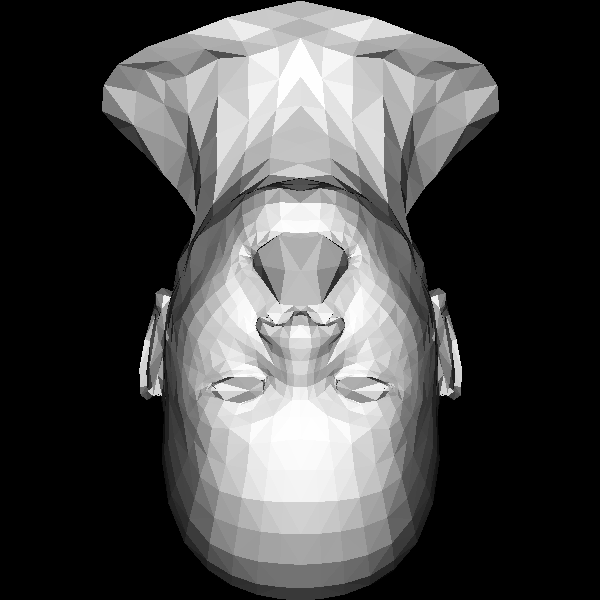
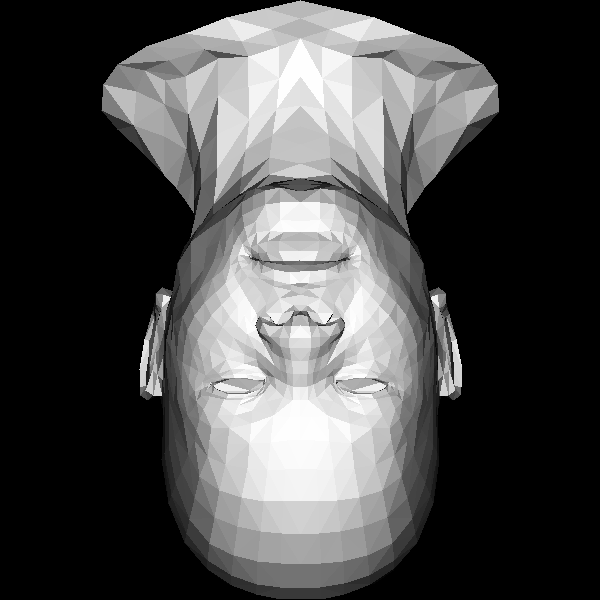
added zbuffer

diff --git a/render/render.go b/render/render.go
@@ -1,8 +1,10 @@
 package render
 
 import (
+	"fmt"
 	"image"
 	"image/color"
+	"math"
 
 	"github.com/deeean/go-vector/vector3"
 	"github.com/hekatx/go-renderer/draw"
@@ -10,43 +12,37 @@ import (
 )
 
 func Model(model obj.Model, width, height int, image *image.RGBA, light_dir vector3.Vector3) {
-	var screen_coords [3][2]float64
+	var screen_coords [3]vector3.Vector3
 	var world_coords [3]vector3.Vector3
 
+	var zbuffer = make([]float64, width*height)
+	for i := 0; i < len(zbuffer); i++ {
+		zbuffer[i] = math.Inf(-1)
+	}
+
 	for i := 0; i < len(model.Faces); i++ {
-		face := model.Faces[i]
+		f := model.Faces[i]
+
 		for j := 0; j < 3; j++ {
-			v := model.Vertices[face[j]]
-			screen_coords[j] = [2]float64{(v.X + 1.) * float64(width) / 2., (v.Y + 1.) * float64(height) / 2.}
+			v := model.Vertices[f[j]]
+			screen_coords[j] = vector3.Vector3{X: float64(int((v.X+1.)*float64(width)/2. + .5)), Y: float64(int((v.Y+1.)*float64(height)/2. + .5)), Z: v.Z}
 			world_coords[j] = v
 		}
-		n := calculateNormal(world_coords[0], world_coords[1], world_coords[2])
 
+		n := calculateNormal(world_coords)
 		intensity := n.Dot(&light_dir)
-		color := color.RGBA{uint8(intensity * 255), uint8(intensity * 255), uint8(intensity * 255), 255}
-		triangle_vertices := []draw.Point{
-			{
-				X: float64(screen_coords[0][0]),
-				Y: float64(screen_coords[0][1]),
-			},
-			{
-				X: float64(screen_coords[1][0]),
-				Y: float64(screen_coords[1][1]),
-			},
-			{
-				X: float64(screen_coords[2][0]),
-				Y: float64(screen_coords[2][1]),
-			},
-		}
+		c := color.RGBA{uint8(intensity * 255), uint8(intensity * 255), uint8(intensity * 255), 255}
+		fmt.Printf("coords are: %v\n", screen_coords)
+		tv := screen_coords
 
 		if intensity > 0 {
-			draw.Triangle(image, color, triangle_vertices)
+			draw.Triangle(image, c, tv, &zbuffer, width, height)
 		}
 	}
 	flipVertically(image)
 }
 
-func RenderWireframe(model obj.Model, width, height int, image *image.RGBA) {
+func Wireframe(model obj.Model, width, height int, image *image.RGBA) {
 	white := color.RGBA{255, 255, 255, 0xff}
 	for i := 0; i < len(model.Faces); i++ {
 		face := model.Faces[i]
@@ -65,9 +61,9 @@ func RenderWireframe(model obj.Model, width, height int, image *image.RGBA) {
 	flipVertically(image)
 }
 
-func calculateNormal(a, b, c vector3.Vector3) vector3.Vector3 {
-	qr := c.Sub(&a)
-	qs := b.Sub(&a)
+func calculateNormal(pts [3]vector3.Vector3) vector3.Vector3 {
+	qr := pts[2].Sub(&pts[0])
+	qs := pts[1].Sub(&pts[0])
 	normal := qr.Cross(qs)
 	return *normal.Normalize()
 }
@@ -81,4 +77,21 @@ func flipVertically(canvas *image.RGBA) *image.RGBA {
 		}
 	}
 	return flipped
+}
+
+func getTriangleVertices(coords [3][2]float64) []vector3.Vector3 {
+	return []vector3.Vector3{
+		{
+			X: float64(coords[0][0]),
+			Y: float64(coords[0][1]),
+		},
+		{
+			X: float64(coords[1][0]),
+			Y: float64(coords[1][1]),
+		},
+		{
+			X: float64(coords[2][0]),
+			Y: float64(coords[2][1]),
+		},
+	}
 }

diff --git a/draw/draw.go b/draw/draw.go
@@ -4,7 +4,9 @@ import (
 	"image"
 	"image/color"
 	"math"
-	"sort"
+
+	"github.com/deeean/go-vector/vector2"
+	"github.com/deeean/go-vector/vector3"
 )
 
 type Point struct {
@@ -75,6 +77,16 @@ func NewImage(w, h int) *image.RGBA {
 	return img
 }
 
+func barycentric(pts [3]vector3.Vector3, P *vector3.Vector3) vector3.Vector3 {
+	v0 := vector3.Vector3{X: float64(pts[1].X - pts[0].X), Y: float64(pts[2].X - pts[0].X), Z: float64(pts[0].X - P.X)}
+	v1 := vector3.Vector3{X: float64(pts[1].Y - pts[0].Y), Y: float64(pts[2].Y - pts[0].Y), Z: float64(pts[0].Y - P.Y)}
+	u := v0.Cross(&v1)
+	if math.Abs(u.Z) > 1e-2 {
+		return vector3.Vector3{X: 1.0 - (u.X+u.Y)/u.Z, Y: u.X / u.Z, Z: u.Y / u.Z}
+	}
+	return vector3.Vector3{X: -1., Y: 1., Z: 1.}
+}
+
 func getBarycentricCoords(p, a, b, c Point) BarycentricCoordinates {
 	var bc BarycentricCoordinates
 	h := c.Y - a.Y
@@ -87,20 +99,33 @@ func isPointOutsideTriangle(w1, w2 float64) bool {
 	return w1 <= 0 || w2 <= 0 || (w1+w2) >= 1.
 }
 
-func Triangle(i *image.RGBA, c color.RGBA, v []Point) {
-	sort.Slice(v, func(i, j int) bool {
-		return v[i].Y < v[j].Y
-	})
+func Triangle(i *image.RGBA, c color.RGBA, v [3]vector3.Vector3, zb *[]float64, w, h int) {
+	bboxmin := vector2.Vector2{X: math.Inf(1), Y: math.Inf(1)}
+	bboxmax := vector2.Vector2{X: math.Inf(-1), Y: math.Inf(-1)}
+	clamp := vector2.Vector2{X: float64(w - 1), Y: float64(h - 1)}
 
-	for y := 0; y < i.Bounds().Max.X; y++ {
-		for x := 0; x < i.Bounds().Max.Y; x++ {
-			bc := getBarycentricCoords(Point{float64(x), float64(y), 0.}, v[2], v[0], v[1])
+	for i := 0; i < len(v); i++ {
+		bboxmin.X = math.Max(0.0, math.Min(bboxmin.X, float64(v[i].X)))
+		bboxmin.Y = math.Max(0.0, math.Min(bboxmin.Y, float64(v[i].Y)))
+		bboxmax.X = math.Min(clamp.X, math.Max(bboxmax.X, float64(v[i].X)))
+		bboxmax.Y = math.Min(clamp.Y, math.Max(bboxmax.Y, float64(v[i].Y)))
+	}
 
-			if isPointOutsideTriangle(float64(bc.w1), float64(bc.w2)) {
+	p := &vector3.Vector3{}
+	for p.X = bboxmin.X; p.X < bboxmax.X; p.X++ {
+		for p.Y = bboxmin.Y; p.Y < bboxmax.Y; p.Y++ {
+			bc := barycentric(v, p)
+
+			if bc.X < 0 || bc.Y < 0 || bc.Z < 0 {
 				continue
 			}
 
-			i.Set(x, y, image.NewUniform(c))
+			p.Z = (bc.X * v[0].Z) + (bc.Y * v[1].Z) + (bc.Z * v[2].Z)
+
+			if (*zb)[int(p.X+p.Y*float64(w))] < p.Z {
+				(*zb)[int(p.X+p.Y*float64(w))] = p.Z
+				i.Set(int(p.X), int(p.Y), image.NewUniform(c))
+			}
 		}
 	}
 }
